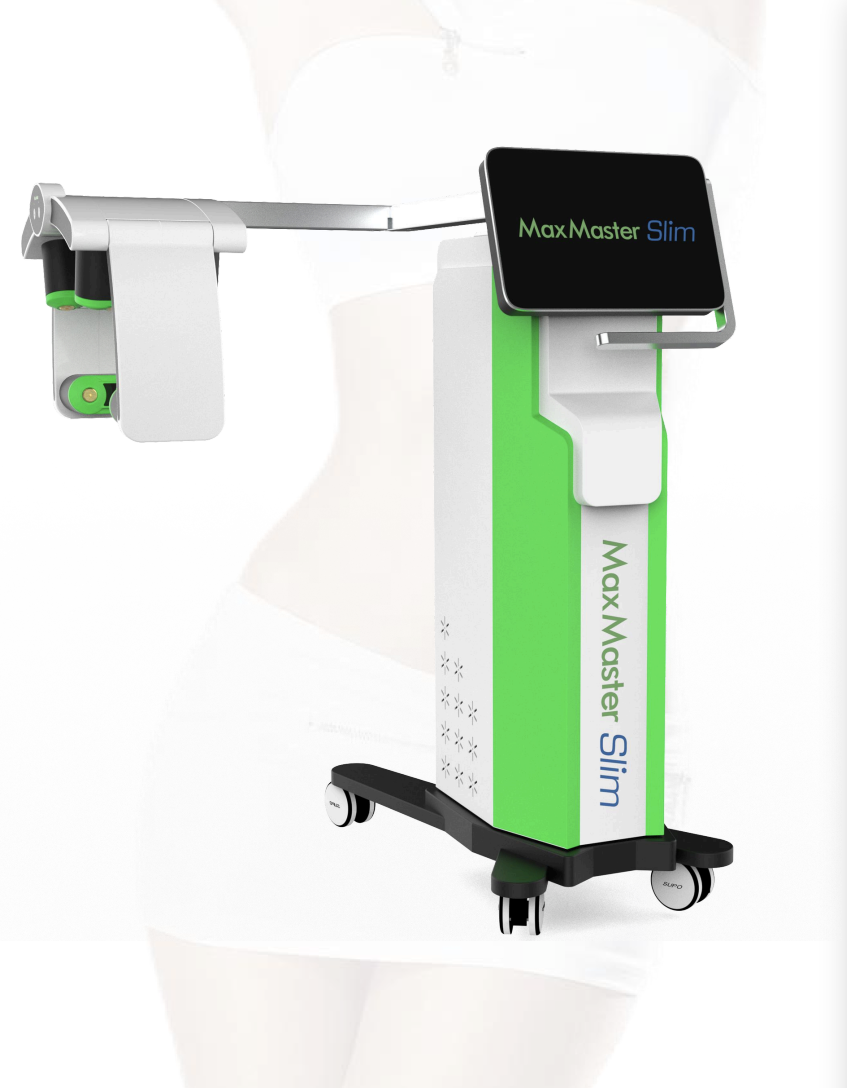
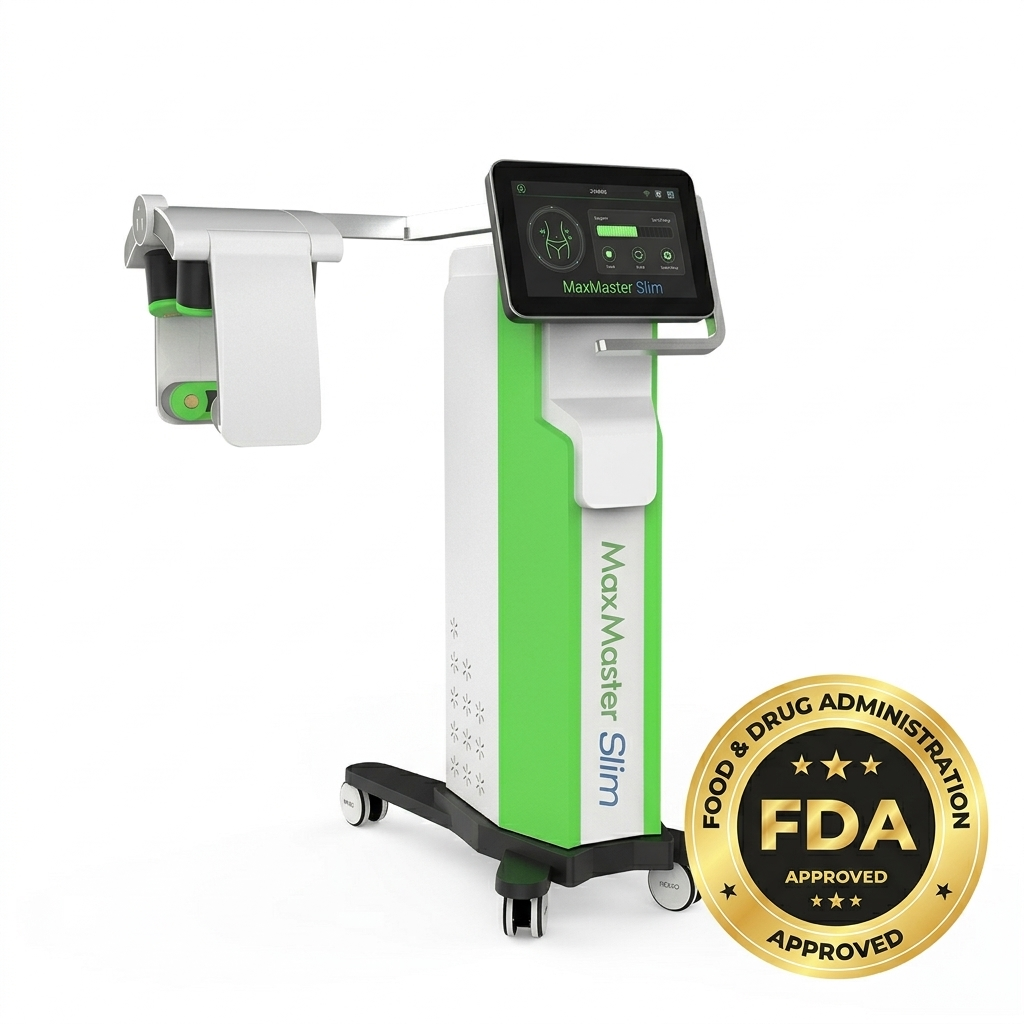
Enhance equipment pages and components for improved user experience
- Updated EquipmentPage and MaxMasterSlimPage to include new catalog links for better resource access.
- Modified PicoLaserBravoPage to add a catalog link, enhancing information availability.
- Refactored CatalogFigure and ImageCarousel components to support new image handling options, including natural aspect ratios and uniform framing.
- Revised MaxMasterSlimDetail to improve content clarity and added before-and-after images for better visual representation of treatment outcomes.
- Cleaned up Navbar by removing outdated links to streamline navigation.

diff --git a/components/equipment/MaxMasterSlimDetail.tsx b/components/equipment/MaxMasterSlimDetail.tsx
@@ -3,12 +3,11 @@ import { CatalogFigure } from "@/components/equipment/CatalogFigure";
 import { ImageCarousel } from "@/components/equipment/ImageCarousel";
 import { maxMasterSlim } from "@/lib/content/equipment";
 
-import imgMaxMasterHero from "@/pictures/MaxMaster Slim/IMG_7207.png";
 import imgMaxMasterProduct from "@/pictures/MaxMaster Slim/IMG_5850.png";
 import imgMaxMasterOnBody1 from "@/pictures/MaxMaster Slim/IMG_6221.png";
 import imgMaxMasterOnBody2 from "@/pictures/MaxMaster Slim/IMG_4882.png";
 import imgMaxMasterOnBody3 from "@/pictures/MaxMaster Slim/IMG_9924.png";
-import imgMaxMasterPanel from "@/pictures/MaxMaster Slim/image4.jpg";
+import imgMaxMasterBeforeAfter from "@/pictures/MaxMaster Slim/front-1.webp";
 import imgMaxMasterLifestyle from "@/pictures/MaxMaster Slim/image2.jpg";
 import imgMaxMasterStudio from "@/pictures/MaxMaster Slim/image3.jpg";
 
@@ -16,16 +15,7 @@ export function MaxMasterSlimDetail() {
   return (
     <section className="section-light border-b border-brand-stroke">
       <div className="container-base py-16 sm:py-20">
-        <div className="mt-2">
-          <CatalogFigure
-            src={imgMaxMasterHero}
-            priority
-            alt="MaxMaster Slim fat reduction workstation"
-            caption="MaxMaster Slim platform for non-invasive body contour sessions."
-          />
-        </div>
-
-        <div className="mt-14 grid gap-6 lg:grid-cols-3">
+        <div className="grid gap-6 lg:grid-cols-3">
           {maxMasterSlim.highlights.map((h) => (
             <Card key={h.title} className="glass p-6">
               <p className="text-xs font-semibold uppercase tracking-[0.2em] text-brand-gold">
@@ -40,13 +30,14 @@ export function MaxMasterSlimDetail() {
           <div>
             <h3 className="text-lg font-semibold text-ink">Product architecture &amp; workflow</h3>
             <p className="mt-2 text-sm leading-relaxed text-ink.soft">
-              The MaxMaster Slim workstation is built for structured contour sessions:
-              articulated arm, treatment modules, and a clear console flow for daily
-              clinical use.
+              The MaxMaster Slim uses low-level laser light to support fat loss and
+              body contouring. It is marketed as FDA-approved, non-surgical, and
+              designed to be gentle.
             </p>
             <div className="mt-6">
               <CatalogFigure
                 src={imgMaxMasterProduct}
+                uniformFrame
                 alt="MaxMaster Slim product view with treatment arm and display"
                 caption="Product view with articulated arm and treatment modules."
               />
@@ -55,12 +46,14 @@ export function MaxMasterSlimDetail() {
           <div>
             <h3 className="text-lg font-semibold text-ink">Hands-free body contouring</h3>
             <p className="mt-2 text-sm leading-relaxed text-ink.soft">
-              Applicators are positioned for hands-free delivery over common treatment
-              zones, supporting repeatable protocols and comfortable patient positioning.
+              Applicators are positioned for hands-free treatment over target areas.
+              The company markets it as painless, with no freezing, no bruising, and
+              no swelling claimed.
             </p>
             <div className="mt-6">
               <CatalogFigure
                 src={imgMaxMasterOnBody1}
+                uniformFrame
                 alt="MaxMaster Slim treatment setup over abdomen"
                 caption="Hands-free treatment setup over abdominal area."
               />
@@ -68,7 +61,7 @@ export function MaxMasterSlimDetail() {
           </div>
         </div>
 
-        <div className="mt-16">
+        <div className="mx-auto mt-16 w-full max-w-2xl sm:max-w-3xl">
           <ImageCarousel
             slides={[
               {
@@ -76,21 +69,25 @@ export function MaxMasterSlimDetail() {
                 alt: "Close-up of MaxMaster Slim light delivery over treatment area",
                 caption: "Close-up of multi-point light delivery during treatment.",
                 priority: true,
+                uniformFrame: true,
               },
               {
                 src: imgMaxMasterOnBody3,
                 alt: "MaxMaster Slim applicators positioned over patient during session",
                 caption: "Multi-angle applicator positioning for body contour workflow.",
+                uniformFrame: true,
               },
               {
                 src: imgMaxMasterLifestyle,
                 alt: "MaxMaster Slim treatment module used on lower body",
                 caption: "Targeted treatment over lower-body areas.",
+                uniformFrame: true,
               },
               {
                 src: imgMaxMasterStudio,
                 alt: "MaxMaster Slim full workstation in studio-style view",
                 caption: "Studio-style system view with full treatment arm.",
+                uniformFrame: true,
               },
             ]}
             ariaLabel="MaxMaster Slim feature images"
@@ -99,17 +96,19 @@ export function MaxMasterSlimDetail() {
 
         <div className="mt-16">
           <h3 className="text-center text-lg font-semibold text-ink">
-            Representative application (catalog)
+            Representative outcomes (before & after)
           </h3>
           <p className="mx-auto mt-2 max-w-2xl text-center text-sm text-ink.soft">
-            Illustrative panels from manufacturer materials. Individual results and
-            protocols vary; your provider will set expectations for your goals.
+            Illustrative before-and-after panels from manufacturer materials.
+            The company positions results as gradual and claims many patients may
+            see changes in 4 weeks or less. Individual results vary.
           </p>
           <div className="mt-8">
             <CatalogFigure
-              src={imgMaxMasterPanel}
-              alt="MaxMaster Slim treatment examples and positioning overview"
-              caption="Catalog examples: treatment positioning and workflow. Always consult a qualified provider."
+              src={imgMaxMasterBeforeAfter}
+              uniformFrame
+              alt="MaxMaster Slim before-and-after treatment results"
+              caption="Catalog examples: before-and-after treatment outcomes. Always consult a qualified provider."
             />
           </div>
         </div>

diff --git a/components/equipment/CatalogFigure.tsx b/components/equipment/CatalogFigure.tsx
@@ -6,27 +6,70 @@ export function CatalogFigure({
   caption,
   priority,
   className,
+  /** When true, show the full image at intrinsic aspect ratio (no letterbox crop). */
+  natural = false,
+  /** With natural: cap height so tall/portrait assets don't dominate (e.g. carousels). */
+  constrainNatural = false,
+  /**
+   * Fixed aspect frame + object-contain: identical slide dimensions in carousels;
+   * full image visible (letterboxing as needed). Mutually exclusive with natural.
+   */
+  uniformFrame = false,
 }: {
   src: StaticImageData;
   alt: string;
   caption?: string;
   priority?: boolean;
   className?: string;
+  natural?: boolean;
+  constrainNatural?: boolean;
+  uniformFrame?: boolean;
 }) {
+  const sizes = "(max-width: 768px) 100vw, min(1100px, 96vw)";
+
+  const naturalImgClass = constrainNatural
+    ? "mx-auto h-auto max-h-[min(52vh,420px)] w-auto max-w-full object-contain sm:max-h-[min(56vh,480px)]"
+    : "h-auto w-full";
+
+  const frameBox = "relative aspect-[16/10] w-full sm:aspect-[16/9]";
+
   return (
     <figure
       className={`overflow-hidden rounded-2xl border border-brand-stroke/80 bg-brand-surfaceMuted/40 shadow-[0_24px_80px_rgba(0,0,0,0.35)] ${className ?? ""}`}
     >
-      <div className="relative aspect-[16/10] w-full sm:aspect-[16/9]">
+      {uniformFrame ? (
+        <div className={frameBox}>
+          <Image
+            src={src}
+            alt={alt}
+            fill
+            className="object-contain object-center"
+            sizes={sizes}
+            priority={priority}
+          />
+        </div>
+      ) : natural ? (
         <Image
           src={src}
           alt={alt}
-          fill
-          className="object-cover object-center"
-          sizes="(max-width: 768px) 100vw, min(1100px, 96vw)"
+          width={src.width}
+          height={src.height}
+          className={naturalImgClass}
+          sizes={sizes}
           priority={priority}
         />
-      </div>
+      ) : (
+        <div className={frameBox}>
+          <Image
+            src={src}
+            alt={alt}
+            fill
+            className="object-cover object-center"
+            sizes={sizes}
+            priority={priority}
+          />
+        </div>
+      )}
       {caption ? (
         <figcaption className="border-t border-brand-stroke/60 px-4 py-3 text-xs leading-relaxed text-ink.soft">
           {caption}

diff --git a/lib/content/equipment.ts b/lib/content/equipment.ts
@@ -52,22 +52,22 @@ export const maxMasterSlim = {
   name: "MaxMaster Slim",
   tagline: "Non-invasive fat reduction & slimming",
   short:
-    "A complementary Bravo platform focused on circumference-focused fat reduction, designed for structured, comfortable sessions without surgery and with minimal disruption to daily life.",
+    "An FDA-approved low-level laser marketed for gentler fat loss and body contouring in a non-surgical, low-disruption experience.",
   highlights: [
     {
-      title: "Contour-first workflow",
+      title: "FDA-approved laser",
       body:
-        "Built for practices that want a clear, repeatable slimming and fat-reduction protocol with measurable checkpoints over a treatment series.",
+        "Low-level laser light marketed to help reduce fat and cellulite. Non-surgical contouring.",
     },
     {
-      title: "Patient comfort",
+      title: "Gentler than lipo and freezing",
       body:
-        "Positioned for well-tolerated sessions that fit modern schedules, aligned with the same premium, clinical tone as the rest of the Bravo family.",
+        "Marketed as gentler than liposuction and freezing. It aims to help fat cells shrink, then clear naturally through the lymphatic system.",
     },
     {
-      title: "Provider-friendly operation",
+      title: "Painless with minimal downtime",
       body:
-        "Ideal for med spas and aesthetic clinics adding a dedicated slimming line alongside laser services.",
+        "Marketed as painless. No freezing, no bruising, and no swelling. Many patients may see results in 4 weeks or less with light exercise and hydration.",
     },
   ],
   specs: [

diff --git a/app/catalogs/[file]/route.ts b/app/catalogs/[file]/route.ts
@@ -1,0 +1,39 @@
+import { NextResponse } from "next/server";
+import fs from "fs/promises";
+import path from "path";
+
+const CATALOGS_DIR = path.join(process.cwd(), "catalogs");
+
+export async function GET(
+  _req: Request,
+  { params }: { params: { file: string } },
+) {
+  const requested = params.file ?? "";
+
+  // Prevent path traversal by enforcing that the resolved path stays within `catalogs/`.
+  const basename = path.basename(requested);
+  if (basename !== requested || requested.includes("/") || requested.includes("\\")) {
+    return new NextResponse("Not found", { status: 404 });
+  }
+
+  const filePath = path.join(CATALOGS_DIR, basename);
+  const resolvedDir = path.resolve(CATALOGS_DIR);
+  const resolvedFile = path.resolve(filePath);
+
+  if (!resolvedFile.startsWith(resolvedDir + path.sep) && resolvedFile !== resolvedDir) {
+    return new NextResponse("Not found", { status: 404 });
+  }
+
+  try {
+    const data = await fs.readFile(resolvedFile);
+    return new NextResponse(data, {
+      headers: {
+        "Content-Type": "application/pdf",
+        "Content-Disposition": `inline; filename="${basename}"`,
+      },
+    });
+  } catch {
+    return new NextResponse("Not found", { status: 404 });
+  }
+}
+

diff --git a/components/equipment/ImageCarousel.tsx b/components/equipment/ImageCarousel.tsx
@@ -9,6 +9,12 @@ type Slide = {
   alt: string;
   caption?: string;
   priority?: boolean;
+  /** Pass through to CatalogFigure: full image, intrinsic aspect ratio */
+  natural?: boolean;
+  /** With natural: cap max height (carousel slides default to constrained) */
+  constrainNatural?: boolean;
+  /** Same aspect box + contain for every slide (recommended for mixed aspect ratios) */
+  uniformFrame?: boolean;
 };
 
 export function ImageCarousel({
@@ -120,6 +126,13 @@ export function ImageCarousel({
                 alt={slide.alt}
                 caption={slide.caption}
                 priority={slide.priority}
+                uniformFrame={slide.uniformFrame}
+                natural={slide.uniformFrame ? false : slide.natural}
+                constrainNatural={
+                  slide.uniformFrame
+                    ? false
+                    : slide.constrainNatural ?? (slide.natural === true ? true : false)
+                }
                 className="border-0 shadow-none"
               />
             </div>

diff --git a/app/(site)/equipment/page.tsx b/app/(site)/equipment/page.tsx
@@ -75,12 +75,12 @@ export default function EquipmentPage() {
                 href={m.href}
                 className="group flex flex-col overflow-hidden rounded-3xl border border-brand-stroke/70 bg-white/90 shadow-sm transition hover:border-brand-gold/40 hover:shadow-[0_12px_40px_rgba(28,27,24,0.08)]"
               >
-                <div className="relative aspect-[4/3] w-full bg-brand-surfaceMuted/40">
+                <div className="relative aspect-[4/3] w-full bg-brand-surfaceMuted/40 p-3 sm:p-4">
                   <Image
                     src={m.image}
                     alt={m.alt}
                     fill
-                    className="object-cover object-center transition duration-500 group-hover:scale-[1.02]"
+                    className="object-contain object-center transition duration-500 group-hover:scale-[1.02]"
                     sizes="(max-width: 640px) 100vw, 50vw"
                   />
                 </div>

diff --git a/app/(site)/equipment/maxmaster-slim/page.tsx b/app/(site)/equipment/maxmaster-slim/page.tsx
@@ -36,6 +36,12 @@ export default function MaxMasterSlimPage() {
             <ButtonLink href="/contact?type=patient" variant="primary">
               Ask about treatment
             </ButtonLink>
+            <ButtonLink
+              href="/catalogs/MaxMaster%20Slim.pdf%203.pdf"
+              variant="outline"
+            >
+              MaxMaster Slim catalog
+            </ButtonLink>
             <ButtonLink href={equipmentPaths.picoLaserBravo} variant="outline">
               Pico Laser Bravo
             </ButtonLink>

diff --git a/app/(site)/equipment/pico-laser-bravo/page.tsx b/app/(site)/equipment/pico-laser-bravo/page.tsx
@@ -36,6 +36,12 @@ export default function PicoLaserBravoPage() {
             <ButtonLink href="/contact?type=provider" variant="primary">
               Provider inquiry
             </ButtonLink>
+            <ButtonLink
+              href="/catalogs/PICO%20L%C3%81SER%20BRAVO.pdf"
+              variant="outline"
+            >
+              Pico Laser Bravo catalog
+            </ButtonLink>
             <ButtonLink href={equipmentPaths.maxMasterSlim} variant="outline">
               MaxMaster Slim
             </ButtonLink>

diff --git a/components/layout/Navbar.tsx b/components/layout/Navbar.tsx
@@ -13,7 +13,6 @@ const navLinks = [
   { href: "/treatment", label: "Treatment" },
   { href: "/patient-results", label: "Patient Results" },
   { href: "/provider-benefits", label: "Provider Benefits" },
-  { href: "/treatment#treatment-areas", label: "Treatment Areas" },
   { href: "/find-a-provider", label: "Find a Provider" },
   { href: "/about", label: "About Us" },
   { href: "/contact", label: "Contact" },
